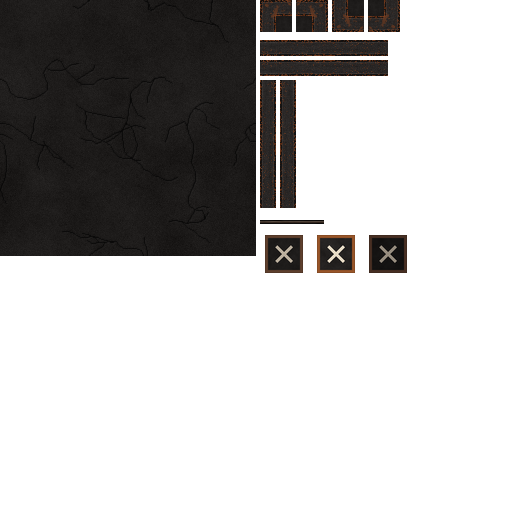
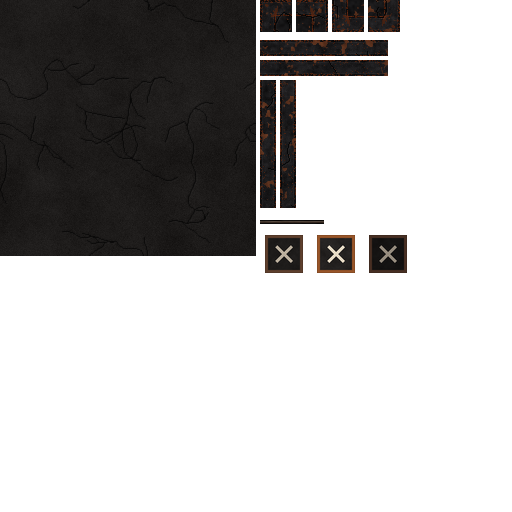
Repaint Dungeonbook and window frames as black iron with rust and cracks (decision 830 e)

diff --git a/source/tests/check_dungeonbook_post_pictures.py b/source/tests/check_dungeonbook_post_pictures.py
@@ -160,8 +160,8 @@ luma = band @ np.array([0.299, 0.587, 0.114])
 rusty = (band[..., 0] > band[..., 1] + 25) & (band[..., 0] > 80)
 assert luma.mean() < 80, 'dark iron'
 assert rusty[:3].mean() > 0.5 and rusty.mean() > 0.08, 'rusty edges'
-bright = luma > 110
-assert bright.any(), 'rivets and bevel catch the light'
+bright = luma > luma.mean() + 30   # decision 830 e: matte black iron, no shiny highlights, rivets stay visible
+assert bright.any() and luma.max() < 110, 'rivets and bevel stay visible but matte'
 print('4. ornate iron frame (%d px edges at 2160, riveted, rusty) and centred 20 pt title on the book only' % T)
 
 # 5. Every other window keeps its frame and title
